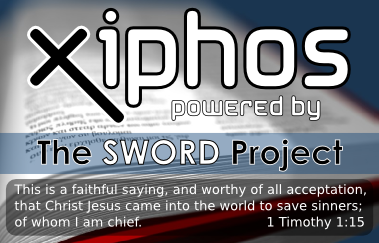
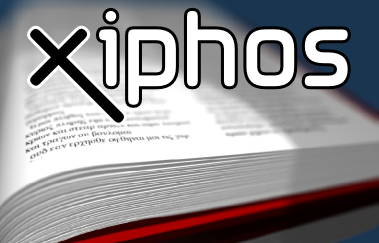
Updated About Xiphos dialog (removed text from image and edited comments)
git-svn-id: http://svn.code.sf.net/p/gnomesword/code/trunk@2671 da23c209-522a-4b7c-92e9-24af42be4764

diff --git a/src/gnome2/about_xiphos.c b/src/gnome2/about_xiphos.c
@@ -132,7 +132,7 @@ gui_create_about_xiphos(void)
 	     _("Copyright 2000-2009 The Xiphos Development Team"));
 	gtk_about_dialog_set_comments
 	    (GTK_ABOUT_DIALOG (about1),
-	     _("(formerly known as GnomeSword)\nWe would like to thank Troy Griffitts and all the other folks who have given us The SWORD Project."));
+	     _("(formerly known as GnomeSword)\n\nPowered by The SWORD Project.\nWe would like to thank Troy Griffitts and all the other folks who have given us The SWORD Project."));
 	gtk_about_dialog_set_website
 	    (GTK_ABOUT_DIALOG (about1), "http://xiphos.sourceforge.net/");
 	gtk_about_dialog_set_authors
